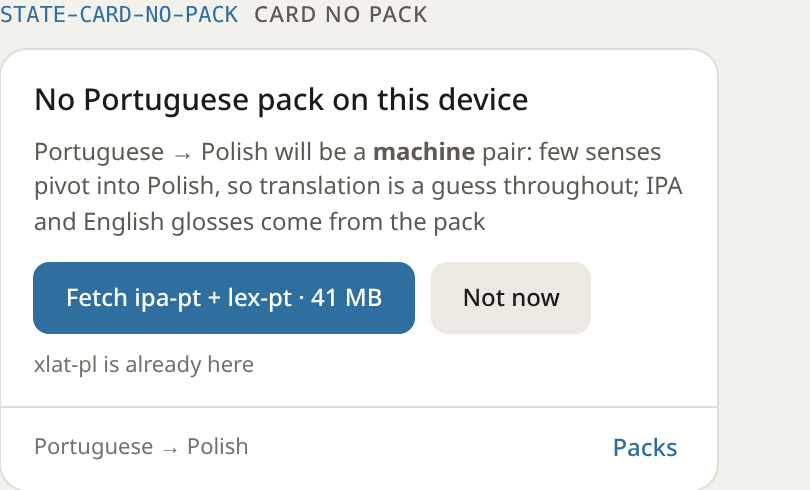
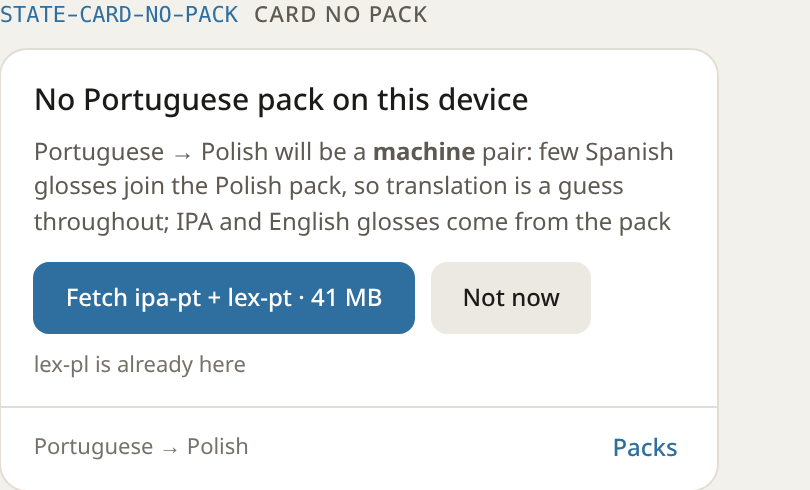
bring the model and the page in line with the gloss join

Changed region(s): [[0.0309, 0.2755, 0.8642, 0.4898], [0.0309, 0.7347, 0.3086, 0.7653]]

diff --git a/docs/merge/surface.html b/docs/merge/surface.html
@@ -594,7 +594,7 @@ body { font-family: var(--font-ui); font-size: var(--font-size-body); line-heigh
           <div class="headline"><span class="tr">czytelnia</span><span class="badge guess">guess</span></div>
           <div class="anchor-en"><a class="badge dict" href="#" aria-label="Source: Wiktionary, English gloss. Opens the entry on Wiktionary."><span class="mark-slot" aria-hidden="true" title="Wikipedia W letterform, asset pinned in data/marks.json">W</span></a><span class="anchor-label">in English</span><span class="anchor-gl">reading room</span></div>
           <div class="ipa-row"><span class="ipa"><span class="delim">[</span><button class="sym c">l</button><button class="sym v">eː</button><button class="sym c">z</button><button class="sym v">ə</button><button class="sym c">z</button><button class="sym v">aː</button><button class="sym c">l</button><span class="delim">]</span></span><button class="audio" aria-label="Play"><svg viewBox="0 0 20 20"><path d="M4 2l14 8-14 8z"/></svg></button><span class="ipa-note">recording</span></div>
-          <div class="gram"><span class="lemma">der Lesesaal</span><span class="chip">noun</span><span class="g-sub">German → Polish is a <b>partial</b> pair: the English pivot found no confident Polish word for this sense, so the headline is a machine guess</span></div>
+          <div class="gram"><span class="lemma">der Lesesaal</span><span class="chip">noun</span><span class="g-sub">German → Polish is a <b>partial</b> pair: this sense&#8217;s gloss does not join the Polish pack confidently, so the headline is a machine guess</span></div>
         </header>
         <div class="card-body">
           <p class="ex"><q>Der Lesesaal ist bis 22 Uhr geöffnet.</q><span class="ex-tr">The reading room is open until 10 pm.</span></p>
@@ -740,10 +740,10 @@ body { font-family: var(--font-ui); font-size: var(--font-size-body); line-heigh
         <div class="card-handle"></div>
         <header class="card-head">
           <div class="headline"><span class="tr quiet">No Portuguese pack on this device</span></div>
-          <div class="gram"><span class="g-sub">Portuguese → Polish will be a <b>machine</b> pair: few senses pivot into Polish, so translation is a guess throughout; IPA and English glosses come from the pack</span></div>
+          <div class="gram"><span class="g-sub">Portuguese → Polish will be a <b>machine</b> pair: few Spanish glosses join the Polish pack, so translation is a guess throughout; IPA and English glosses come from the pack</span></div>
         </header>
         <div class="card-body">
-          <div class="btn-row"><button class="btn">Fetch ipa-pt + lex-pt · 41 MB</button><button class="btn secondary">Not now</button><span class="ipa-note">xlat-pl is already here</span></div>
+          <div class="btn-row"><button class="btn">Fetch ipa-pt + lex-pt · 41 MB</button><button class="btn secondary">Not now</button><span class="ipa-note">lex-pl is already here</span></div>
         </div>
         <footer class="card-foot"><span>Portuguese → Polish</span><span class="actions"><button class="btn-text">Packs</button></span></footer>
       </article>
